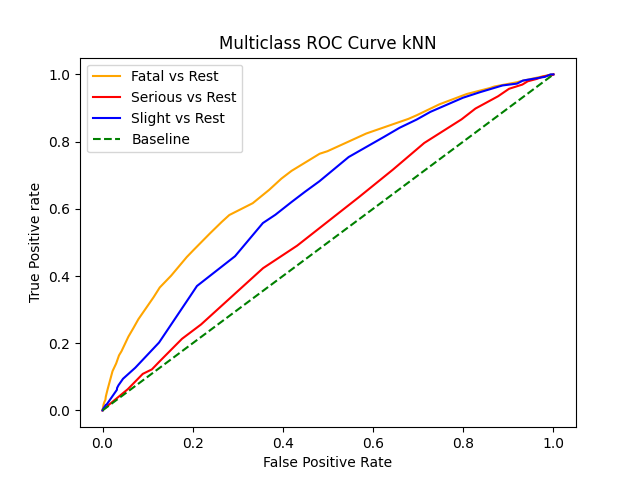
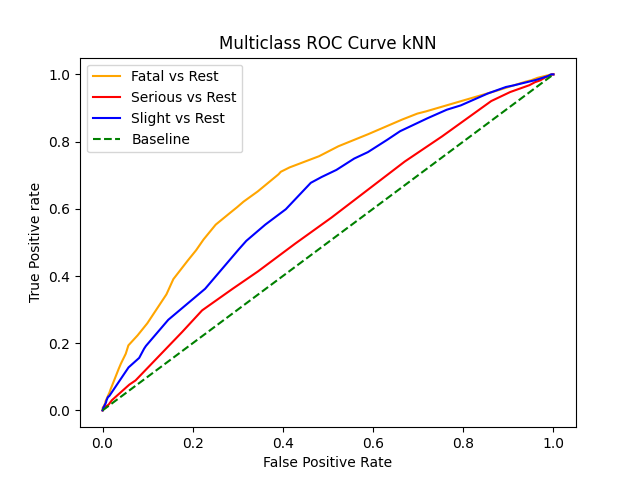
Cleaning up kNN branch

diff --git a/kNN_classifier.py b/kNN_classifier.py
@@ -8,10 +8,10 @@ from sklearn.metrics import confusion_matrix
 
 # gamma for Knn gaussian calculation
 from plot_multi_ROC import plot_multi_ROC
-
+# Constant for gamma
 gamma = 0
 
-
+# Gaussian Kernel function
 def gaussian_kernel(dist):
     # w(i) = e^−γd(x^(i),x)^2
     weights = np.exp(-gamma * (dist ** 2))
@@ -19,23 +19,23 @@ def gaussian_kernel(dist):
 
 
 def test_neighbors(input_prepared, output_prepared):
-    kfolds = [5, 10, 20, 25, 50, 100]
+    # Values we are going to test
+    neighbor_values = [5, 10, 20, 25, 50, 100]
     mean_errs = []
     std_errs = []
-    for i in kfolds:
-        kf = KFold(n_splits=i)
+    kf = KFold(n_splits=10)
+    for i in neighbor_values:
         tmpMeanErr = []
         for trainer, tester in kf.split(input_prepared):
             model = KNeighborsClassifier(n_neighbors=i, weights='uniform').fit(input_prepared[trainer],
                                                                                output_prepared[trainer])
             ypred = model.predict(input_prepared[tester])
-            predError = f1_score(
-                output_prepared[tester], ypred, average='weighted')
+            predError = f1_score(output_prepared[tester], ypred, average='weighted')
             tmpMeanErr.append(predError)
         mean_errs.append(np.mean(tmpMeanErr))
         std_errs.append(np.std(tmpMeanErr))
 
-    plt.errorbar(kfolds, mean_errs, yerr=std_errs)
+    plt.errorbar(neighbor_values, mean_errs, yerr=std_errs)
     plt.title('Cross validation kNN for Neighbor Values')
     plt.xlabel("Neighbor Values")
     plt.ylabel("f1-scores")
@@ -44,9 +44,8 @@ def test_neighbors(input_prepared, output_prepared):
 
 
 def test_gamma(input_prepared, output_prepared):
-    k = 5
     gamma_list = [0, 1, 5, 10, 25]
-    kf = KFold(n_splits=5)
+    kf = KFold(n_splits=10)
     mean_errs = []
     std_errs = []
     for i in gamma_list:
@@ -54,7 +53,7 @@ def test_gamma(input_prepared, output_prepared):
         tmpMeanErr = []
         for trainer, tester in kf.split(input_prepared):
             model = KNeighborsClassifier(
-                n_neighbors=k, weights=gaussian_kernel).fit(input_prepared[trainer], output_prepared[trainer])
+                n_neighbors=50, weights=gaussian_kernel).fit(input_prepared[trainer], output_prepared[trainer])
             ypred = model.predict(input_prepared[tester])
             predError = f1_score(
                 output_prepared[tester], ypred, average='weighted')
@@ -74,7 +73,6 @@ def compare_tuned_model(input_data, output_data):
     Xtrain, Xtest, ytrain, ytest = train_test_split(input_data, output_data, test_size=0.33, random_state=1)
     tunned_knn_model = KNeighborsClassifier(n_neighbors=50, weights='uniform').fit(Xtrain, ytrain)
     tuned_model_ypred = tunned_knn_model.predict(Xtest)
-    print("Tuned Knn f-1 score: " + str(f1_score(ytest, tuned_model_ypred, average='weighted')))
     print(confusion_matrix(ytest, tuned_model_ypred))
     print(classification_report(ytest, tuned_model_ypred))
 
@@ -84,6 +82,7 @@ def compare_tuned_model(input_data, output_data):
     dummy_classifier_ypred = dummy_classifier.predict(Xtest)
     print("Dummy Model f-1 score: " +
           str(f1_score(ytest, dummy_classifier_ypred, average='weighted')))
+    print("Tuned Knn f-1 score: " + str(f1_score(ytest, tuned_model_ypred, average='weighted')))
 
     pred_prob = tunned_knn_model.predict_proba(Xtest)
     plot_multi_ROC(pred_prob, ytest, 'kNN')
